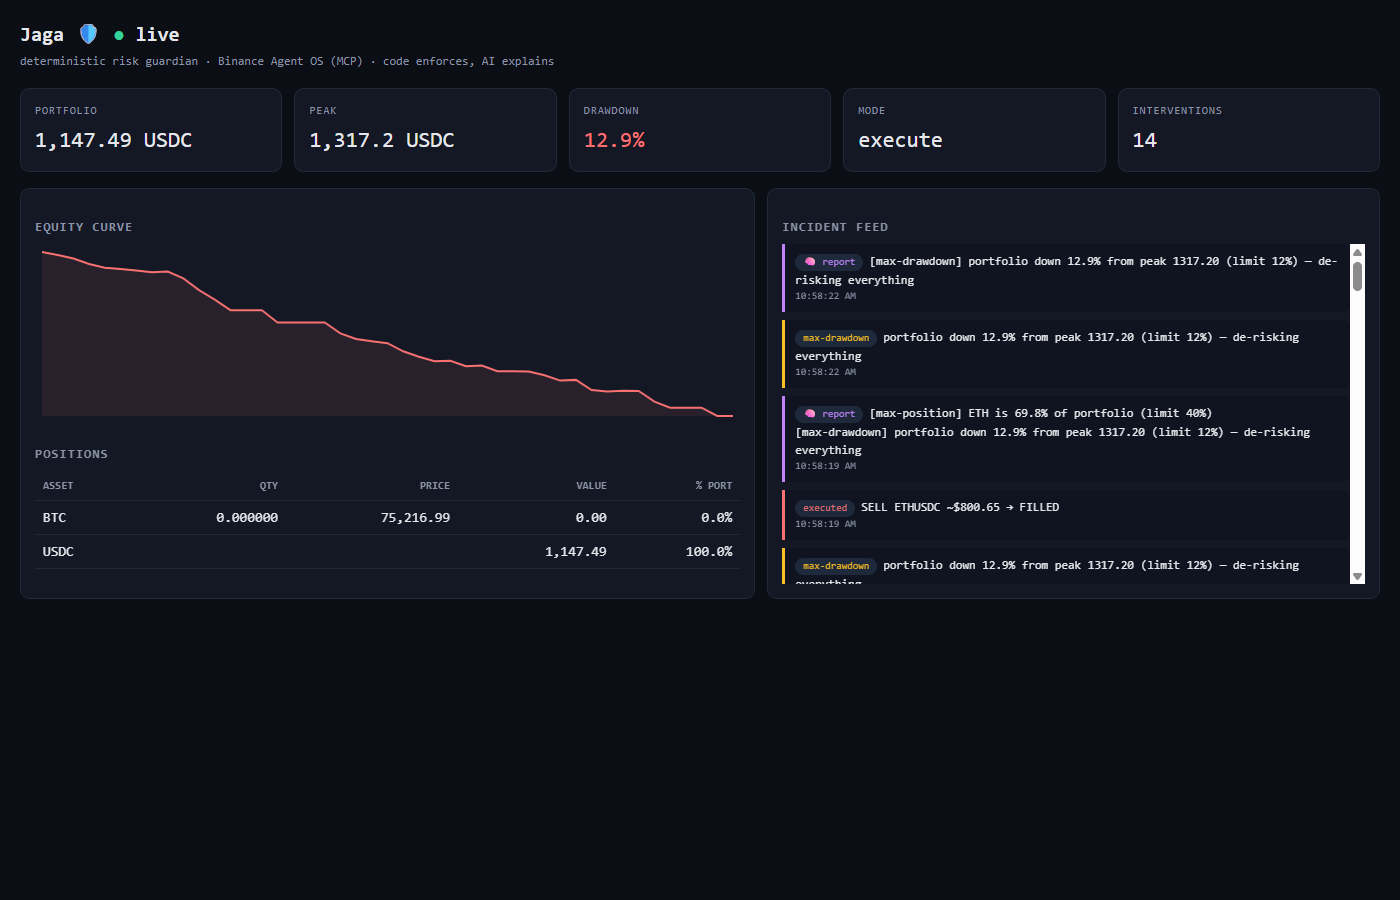
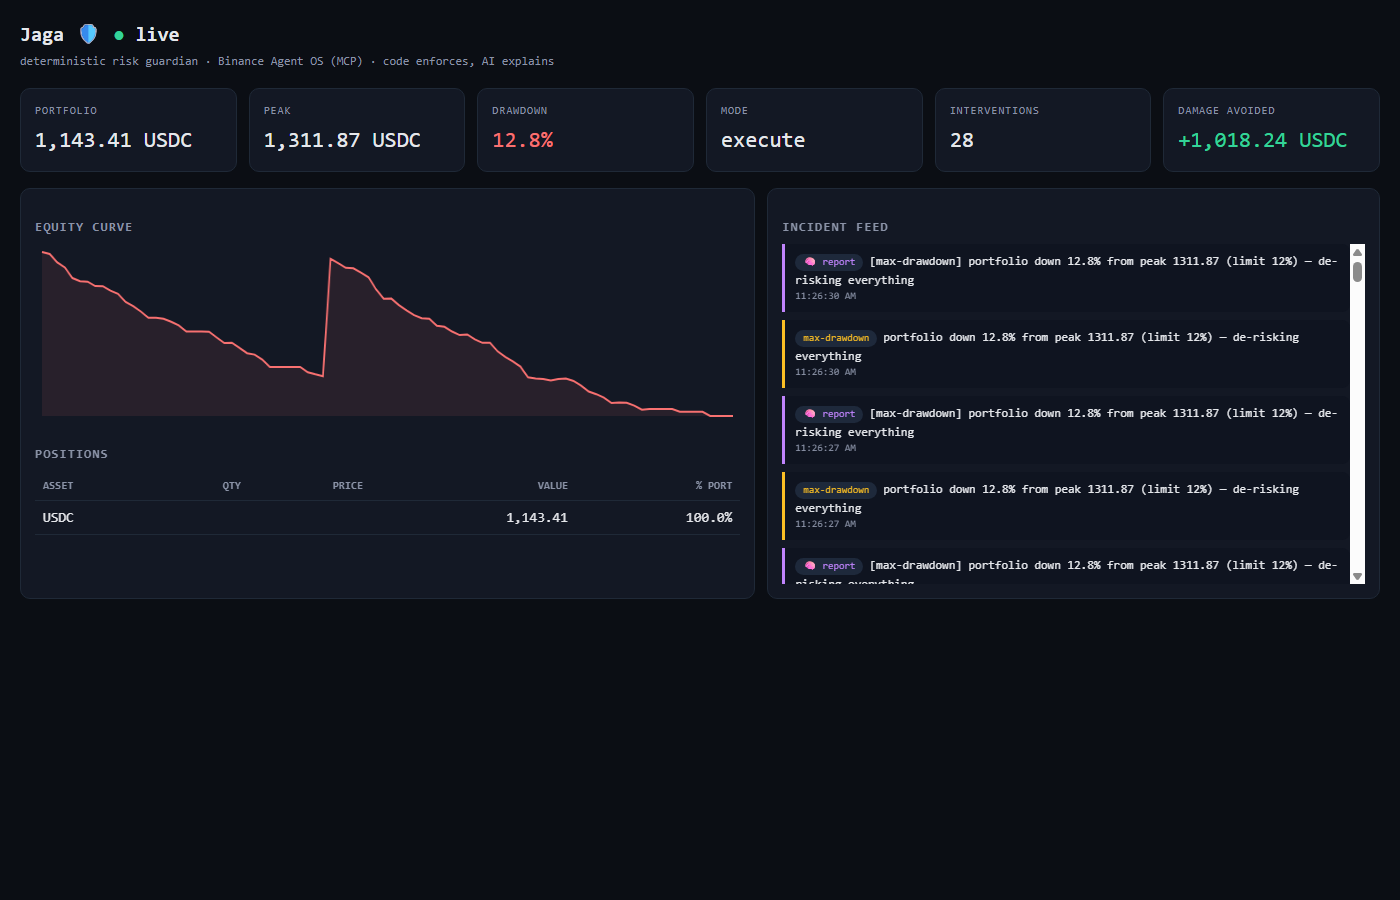
Damage-avoided counter, dashboard approval flow, boot-injected first paint
- ledger of executed de-risks -> live counterfactual 'damage avoided' stat
- propose mode: pending approvals on dashboard with approve/reject buttons
  (POST /decide), one open proposal per symbol
- dashboard serves state inline (no fetch race), SSE only for updates
- engine: drawdown stays silent once fully de-risked; +1 test (18)
- fresh screenshot: +1,018 USDC damage avoided in a crash demo

Claude-Session: https://claude.ai/code/session_01XVcLYbSPNx6Tsoupo6qUEu

diff --git a/README.md b/README.md
@@ -49,6 +49,8 @@ Rules compose — when several fire on one asset, the worst (full) sell wins, de
 **Around the engine:**
 
 - 📊 **Live dashboard** (`localhost:7777`) — equity curve, positions, drawdown, and a real-time incident feed over SSE. Zero frontend dependencies.
+- 💰 **Damage-avoided counter** — for every executed de-risk, Jaga tracks the counterfactual ("what would that position be worth if we'd kept holding?") and shows the running total of losses prevented. Proof of value in one number.
+- 🙋 **Human-in-the-loop approvals** — in `propose` mode, orders don't execute: they appear on the dashboard as pending approvals with ✅/❌ buttons. One click executes through MCP; nothing trades without you. Flip to `execute` only when you trust it.
 - 🧾 **Audit trail** — every tick, violation, order and report appended to `audit.jsonl`. Reconstruct any decision after the fact.
 - 🔔 **Webhook alerts** — Discord/Slack-compatible POST on every intervention.
 - 🧠 **AI analyst** — incident reports when rules trip, periodic threat assessments when they don't ("what's closest to tripping"). Provider-agnostic (OpenAI-compatible): OpenRouter, Venice AI, or any compatible endpoint via `OPENROUTER_API_KEY` / `VENICE_API_KEY` / `LLM_API_KEY` + optional `LLM_BASE_URL`/`LLM_MODEL`. Degrades gracefully to deterministic reports without a key.
